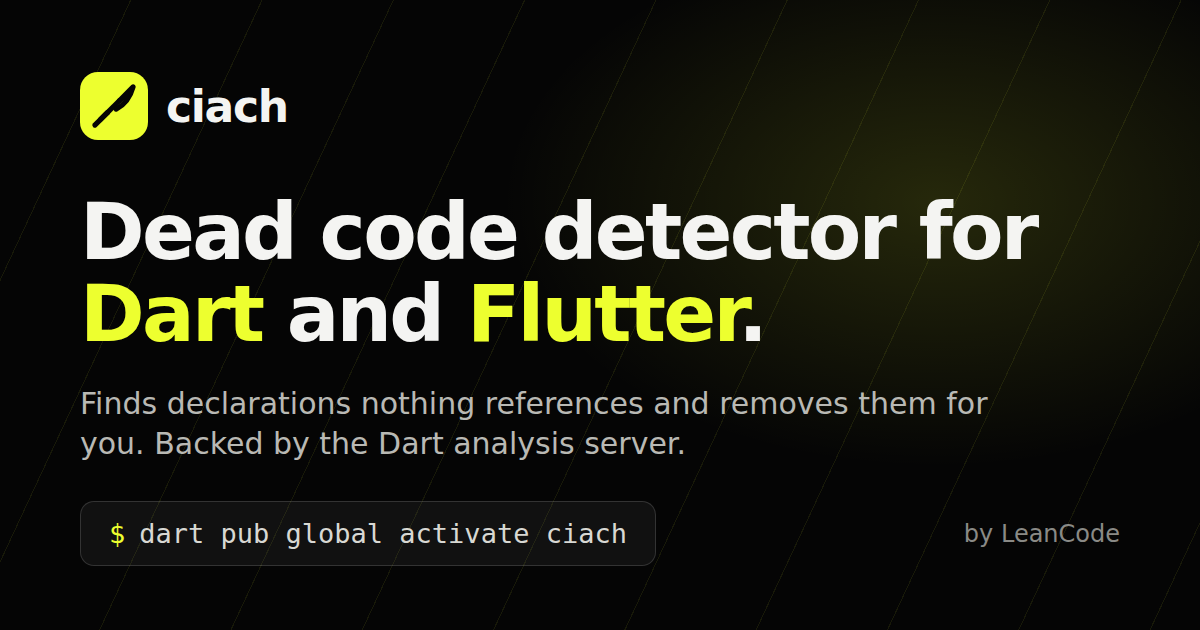
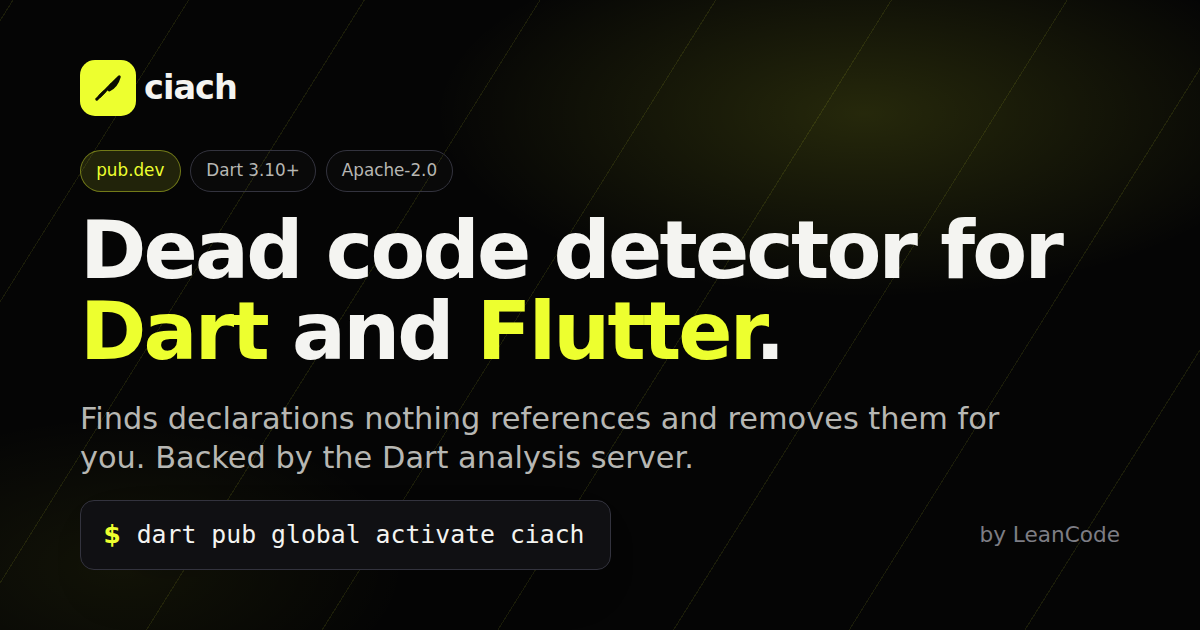
website: render the social card with the site's stylesheet and fonts
The Open Graph image is now the landing hero laid out for 1200x630: it
links web/styles.css and the same Google Fonts the pages use, so Space
Grotesk, JetBrains Mono, the badges, the install pill and the hero
background all match the site and follow future design changes.

Claude-Session: https://claude.ai/code/session_01VcpaLyVB3CBkMXd4CPxr79

diff --git a/website/README.md b/website/README.md
@@ -64,7 +64,7 @@ production workflow's alias step assigns the domain to the project.
 | `lib/components/` | Sections and building blocks: `CodeBlock`, `Terminal`, the page shell, and the three `@client` islands: `CopyButton`, `DocsToc` and `DemoTrigger`. |
 | `web/styles.css` | The stylesheet. Design tokens are CSS custom properties at the top. |
 | `web/` | Static assets copied verbatim: favicon, manifest, robots.txt, the Open Graph image. |
-| `tool/render_assets.mjs` | Regenerates the PNG icons and the Open Graph image from `favicon.svg` with Playwright: `PLAYWRIGHT_CHROMIUM=<path> node tool/render_assets.mjs` (needs `playwright` resolvable from `tool/`). |
+| `tool/render_assets.mjs` | Regenerates the PNG icons from `favicon.svg` and the Open Graph card from the site's own stylesheet and web fonts, with Playwright: `PLAYWRIGHT_CHROMIUM=<path> node tool/render_assets.mjs` (needs `playwright` resolvable from `tool/` and access to Google Fonts). |
 
 ## Notes
 
